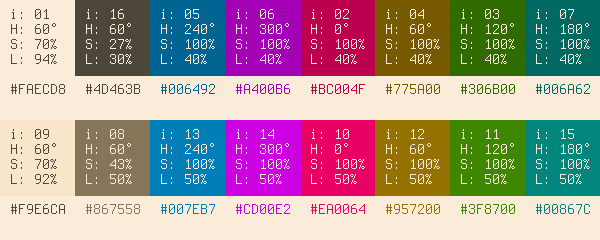
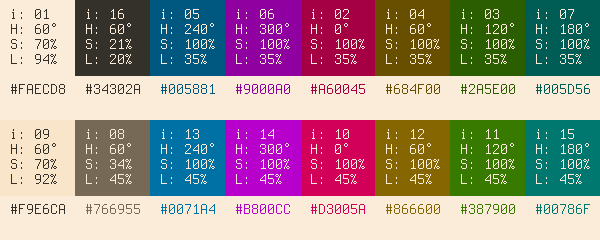
Color corrections for light mode

diff --git a/scripts/hsluv-pal-light-hc.py b/scripts/hsluv-pal-light-hc.py
@@ -20,13 +20,13 @@ Sn = 100
 Sb = 100
 
 # Lightness
-Ln = 40
-Lb = 50
+Ln = 35
+Lb = 45
 
 H01 = BA  ; S01 = 70 ; L01 = 97 ; BASE1 = [] ; ZASE1 = [] #base1
 H02 = BA  ; S02 = 70 ; L02 = 95 ; BASE2 = [] ; ZASE2 = [] #base2
-H03 = BA  ; S03 = 27 ; L03 = 30 ; BASE3 = [] ; ZASE3 = [] #base4
-H04 = BA  ; S04 = 43 ; L04 = 50 ; BASE4 = [] ; ZASE4 = [] #base3
+H03 = BA  ; S03 = 21 ; L03 = 20 ; BASE3 = [] ; ZASE3 = [] #base4
+H04 = BA  ; S04 = 34 ; L04 = Lb ; BASE4 = [] ; ZASE4 = [] #base3
 H05 = 0   ; S05 = Sn ; L05 = Ln ; BACR1 = [] ; ZACR1 = [] #acr50
 H06 = 60  ; S06 = Sn ; L06 = Ln ; BACO1 = [] ; ZACO1 = [] #aco50
 H07 = 120 ; S07 = Sn ; L07 = Ln ; BACG1 = [] ; ZACG1 = [] #acg50

diff --git a/scripts/hsluv-pal-light-lc.py b/scripts/hsluv-pal-light-lc.py
@@ -20,13 +20,13 @@ Sn = 100
 Sb = 100
 
 # Lightness
-Ln = 40
-Lb = 50
+Ln = 35
+Lb = 45
 
 H01 = BA  ; S01 = 70 ; L01 = 91 ; BASE1 = [] ; ZASE1 = [] #base1
 H02 = BA  ; S02 = 70 ; L02 = 89 ; BASE2 = [] ; ZASE2 = [] #base2
-H03 = BA  ; S03 = 27 ; L03 = 30 ; BASE3 = [] ; ZASE3 = [] #base4
-H04 = BA  ; S04 = 43 ; L04 = 50 ; BASE4 = [] ; ZASE4 = [] #base3
+H03 = BA  ; S03 = 21 ; L03 = 20 ; BASE3 = [] ; ZASE3 = [] #base4
+H04 = BA  ; S04 = 34 ; L04 = Lb ; BASE4 = [] ; ZASE4 = [] #base3
 H05 = 0   ; S05 = Sn ; L05 = Ln ; BACR1 = [] ; ZACR1 = [] #acr50
 H06 = 60  ; S06 = Sn ; L06 = Ln ; BACO1 = [] ; ZACO1 = [] #aco50
 H07 = 120 ; S07 = Sn ; L07 = Ln ; BACG1 = [] ; ZACG1 = [] #acg50

diff --git a/scripts/hsluv-pal-light-mc.py b/scripts/hsluv-pal-light-mc.py
@@ -20,13 +20,13 @@ Sn = 100
 Sb = 100
 
 # Lightness
-Ln = 40
-Lb = 50
+Ln = 35
+Lb = 45
 
 H01 = BA  ; S01 = 70 ; L01 = 94 ; BASE1 = [] ; ZASE1 = [] #base1
 H02 = BA  ; S02 = 70 ; L02 = 92 ; BASE2 = [] ; ZASE2 = [] #base2
-H03 = BA  ; S03 = 27 ; L03 = 30 ; BASE3 = [] ; ZASE3 = [] #base4
-H04 = BA  ; S04 = 43 ; L04 = 50 ; BASE4 = [] ; ZASE4 = [] #base3
+H03 = BA  ; S03 = 21 ; L03 = 20 ; BASE3 = [] ; ZASE3 = [] #base4
+H04 = BA  ; S04 = 34 ; L04 = Lb ; BASE4 = [] ; ZASE4 = [] #base3
 H05 = 0   ; S05 = Sn ; L05 = Ln ; BACR1 = [] ; ZACR1 = [] #acr50
 H06 = 60  ; S06 = Sn ; L06 = Ln ; BACO1 = [] ; ZACO1 = [] #aco50
 H07 = 120 ; S07 = Sn ; L07 = Ln ; BACG1 = [] ; ZACG1 = [] #acg50

diff --git a/values/atomic-light-hc.md b/values/atomic-light-hc.md
@@ -5,20 +5,20 @@ Id Color            Hue   Sat   Luv    Hex    (R - G - B)
 -- --------------  ----  ----  ----  -------  -----------
 01 Base 1           60°   70%   97%  #FCF5EC  252 245 236
 09 Base 2           60°   70%   95%  #FBEFDF  251 239 223
-08 Base 3           60°   27%   30%  #4D463B   77  70  59
-16 Base 4           60°   43%   50%  #867558  134 117  88
+08 Base 3           60°   21%   20%  #34302A   52  48  42
+16 Base 4           60°   34%   45%  #766955  118 105  85
 -- --------------  ----  ----  ----  -------  -----------
-02 Dark Red          0°  100%   40%  #BC004F  188   0  79
-04 Dark Orange      60°  100%   40%  #775A00  119  90   0
-03 Dark Green      120°  100%   40%  #306B00   48 107   0
-07 Dark Cyan       180°  100%   40%  #006A62    0 106  98
-05 Dark Blue       240°  100%   40%  #006492    0 100 146
-06 Dark Violet     300°  100%   40%  #A400B6  164   0 182
+02 Dark Red          0°  100%   35%  #A60045  166   0  69
+04 Dark Orange      60°  100%   35%  #684F00  104  79   0
+03 Dark Green      120°  100%   35%  #2A5E00   42  94   0
+07 Dark Cyan       180°  100%   35%  #005D56    0  93  86
+05 Dark Blue       240°  100%   35%  #005881    0  88 129
+06 Dark Violet     300°  100%   35%  #9000A0  144   0 160
 -- --------------  ----  ----  ----  -------  -----------
-10 Light Red         0°  100%   50%  #EA0064  234   0 100
-12 Light Orange     60°  100%   50%  #957200  149 114   0
-11 Light Green     120°  100%   50%  #3F8700   63 135   0
-15 Light Cyan      180°  100%   50%  #00867C    0 134 124
-13 Light Blue      240°  100%   50%  #007EB7    0 126 183
-14 Light Violet    300°  100%   50%  #CD00E2  205   0 226
+10 Light Red         0°  100%   45%  #D3005A  211   0  90
+12 Light Orange     60°  100%   45%  #866600  134 102   0
+11 Light Green     120°  100%   45%  #387900   56 121   0
+15 Light Cyan      180°  100%   45%  #00786F    0 120 111
+13 Light Blue      240°  100%   45%  #0071A4    0 113 164
+14 Light Violet    300°  100%   45%  #B800CC  184   0 204
 ```

diff --git a/values/atomic-light-lc.md b/values/atomic-light-lc.md
@@ -5,20 +5,20 @@ Id Color            Hue   Sat   Luv    Hex    (R - G - B)
 -- --------------  ----  ----  ----  -------  -----------
 01 Base 1           60°   70%   91%  #F8E2C3  248 226 195
 09 Base 2           60°   70%   89%  #F7DCB3  247 220 179
-08 Base 3           60°   27%   30%  #4D463B   77  70  59
-16 Base 4           60°   43%   50%  #867558  134 117  88
+08 Base 3           60°   21%   20%  #34302A   52  48  42
+16 Base 4           60°   34%   45%  #766955  118 105  85
 -- --------------  ----  ----  ----  -------  -----------
-02 Dark Red          0°  100%   40%  #BC004F  188   0  79
-04 Dark Orange      60°  100%   40%  #775A00  119  90   0
-03 Dark Green      120°  100%   40%  #306B00   48 107   0
-07 Dark Cyan       180°  100%   40%  #006A62    0 106  98
-05 Dark Blue       240°  100%   40%  #006492    0 100 146
-06 Dark Violet     300°  100%   40%  #A400B6  164   0 182
+02 Dark Red          0°  100%   35%  #A60045  166   0  69
+04 Dark Orange      60°  100%   35%  #684F00  104  79   0
+03 Dark Green      120°  100%   35%  #2A5E00   42  94   0
+07 Dark Cyan       180°  100%   35%  #005D56    0  93  86
+05 Dark Blue       240°  100%   35%  #005881    0  88 129
+06 Dark Violet     300°  100%   35%  #9000A0  144   0 160
 -- --------------  ----  ----  ----  -------  -----------
-10 Light Red         0°  100%   50%  #EA0064  234   0 100
-12 Light Orange     60°  100%   50%  #957200  149 114   0
-11 Light Green     120°  100%   50%  #3F8700   63 135   0
-15 Light Cyan      180°  100%   50%  #00867C    0 134 124
-13 Light Blue      240°  100%   50%  #007EB7    0 126 183
-14 Light Violet    300°  100%   50%  #CD00E2  205   0 226
+10 Light Red         0°  100%   45%  #D3005A  211   0  90
+12 Light Orange     60°  100%   45%  #866600  134 102   0
+11 Light Green     120°  100%   45%  #387900   56 121   0
+15 Light Cyan      180°  100%   45%  #00786F    0 120 111
+13 Light Blue      240°  100%   45%  #0071A4    0 113 164
+14 Light Violet    300°  100%   45%  #B800CC  184   0 204
 ```

diff --git a/values/atomic-light-mc.md b/values/atomic-light-mc.md
@@ -5,20 +5,20 @@ Id Color            Hue   Sat   Luv    Hex    (R - G - B)
 -- --------------  ----  ----  ----  -------  -----------
 01 Base 1           60°   70%   94%  #FAECD8  250 236 216
 09 Base 2           60°   70%   92%  #F9E6CA  249 230 202
-08 Base 3           60°   27%   30%  #4D463B   77  70  59
-16 Base 4           60°   43%   50%  #867558  134 117  88
+08 Base 3           60°   21%   20%  #34302A   52  48  42
+16 Base 4           60°   34%   45%  #766955  118 105  85
 -- --------------  ----  ----  ----  -------  -----------
-02 Dark Red          0°  100%   40%  #BC004F  188   0  79
-04 Dark Orange      60°  100%   40%  #775A00  119  90   0
-03 Dark Green      120°  100%   40%  #306B00   48 107   0
-07 Dark Cyan       180°  100%   40%  #006A62    0 106  98
-05 Dark Blue       240°  100%   40%  #006492    0 100 146
-06 Dark Violet     300°  100%   40%  #A400B6  164   0 182
+02 Dark Red          0°  100%   35%  #A60045  166   0  69
+04 Dark Orange      60°  100%   35%  #684F00  104  79   0
+03 Dark Green      120°  100%   35%  #2A5E00   42  94   0
+07 Dark Cyan       180°  100%   35%  #005D56    0  93  86
+05 Dark Blue       240°  100%   35%  #005881    0  88 129
+06 Dark Violet     300°  100%   35%  #9000A0  144   0 160
 -- --------------  ----  ----  ----  -------  -----------
-10 Light Red         0°  100%   50%  #EA0064  234   0 100
-12 Light Orange     60°  100%   50%  #957200  149 114   0
-11 Light Green     120°  100%   50%  #3F8700   63 135   0
-15 Light Cyan      180°  100%   50%  #00867C    0 134 124
-13 Light Blue      240°  100%   50%  #007EB7    0 126 183
-14 Light Violet    300°  100%   50%  #CD00E2  205   0 226
+10 Light Red         0°  100%   45%  #D3005A  211   0  90
+12 Light Orange     60°  100%   45%  #866600  134 102   0
+11 Light Green     120°  100%   45%  #387900   56 121   0
+15 Light Cyan      180°  100%   45%  #00786F    0 120 111
+13 Light Blue      240°  100%   45%  #0071A4    0 113 164
+14 Light Violet    300°  100%   45%  #B800CC  184   0 204
 ```
